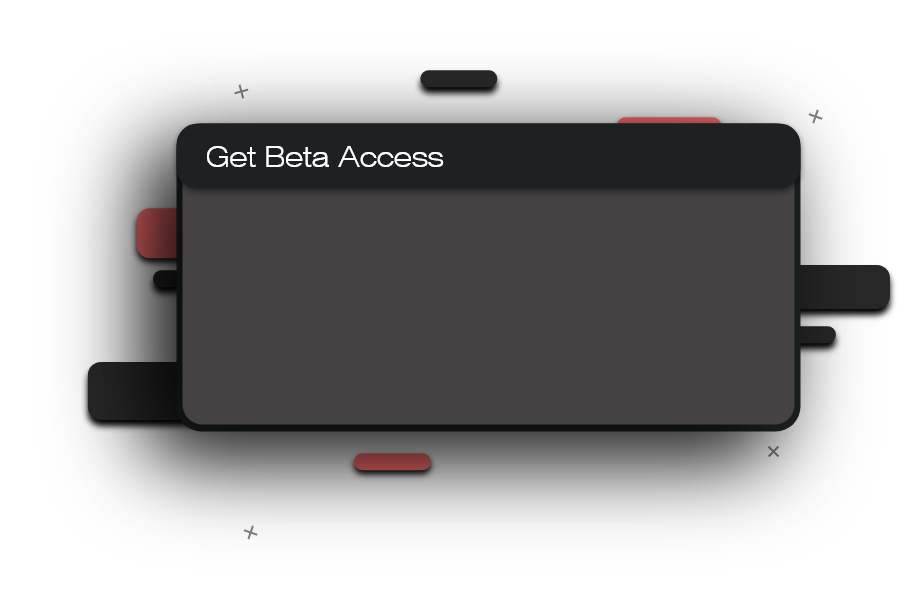
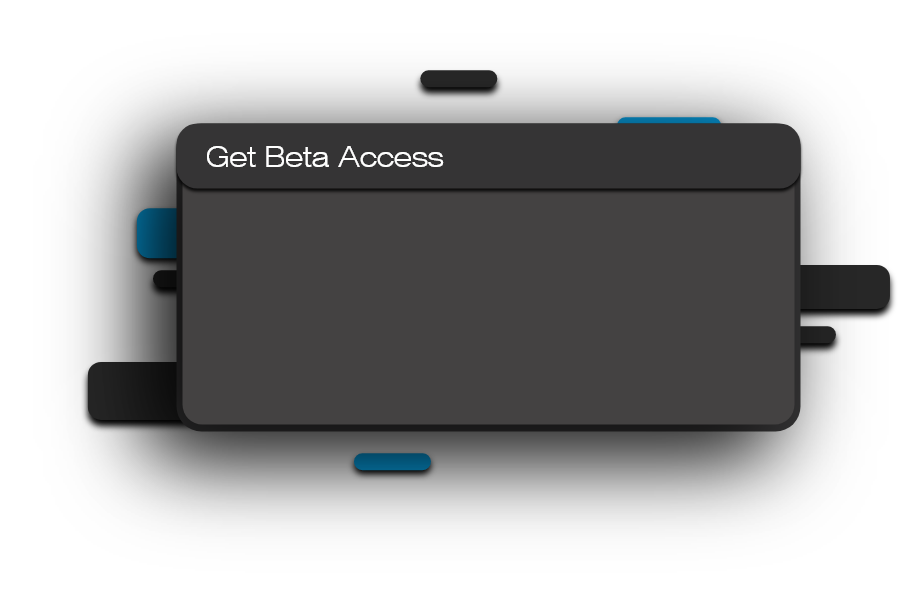
cosmetic changes

diff --git a/client/src/Components/Site/Navigation/Navigation.js b/client/src/Components/Site/Navigation/Navigation.js
@@ -11,21 +11,30 @@ class Navigation extends Component {
 
     render() {
 
+        console.log(window.location.pathname)
+
         return ( 
             <nav className={styles.navContainer}>
                 <div className={styles.logoContainer}>
-                    <h1 className={styles.logoText} onClick={()=>window.location = 'home'}>MetaMod</h1>
+                    <h1 className={styles.logoText} onClick={()=>window.location = 'home'}>
+                        MetaMod
+                        <div className={styles.activeLogo} style={window.location.pathname === '/home' || window.location.pathname === '/' ? {visibility: 'visible'} : {visibility: 'hidden'}}></div>
+                    </h1>
+                    
                 </div>
                 <div className={styles.navOptionsContainer}>
                     <ul className={styles.optionsList}>
                         <li className={styles.optionContainer} onClick={()=>window.location = 'beta'}>
                             <p className={styles.optionText}>Beta</p>
+                            <div className={styles.active} style={window.location.pathname === '/beta' ? {visibility: 'visible'} : {visibility: 'hidden'}}></div>
                         </li>
                         <li className={styles.optionContainer} onClick={()=>window.location = 'about'}>
                             <p className={styles.optionText}>Wth is MetaMod?</p>
+                            <div className={styles.active} style={window.location.pathname === '/about' ? {visibility: 'visible'} : {visibility: 'hidden'}}></div>
                         </li>
                         <li className={styles.optionContainer} onClick={()=>window.location = 'contact'}>
                             <p className={styles.optionText}>Contact</p>
+                            <div className={styles.active} style={window.location.pathname === '/contact' ? {visibility: 'visible'} : {visibility: 'hidden'}}></div>
                         </li>
                     </ul>
                 </div>

diff --git a/client/src/Components/Site/Navigation/Navigation.module.css b/client/src/Components/Site/Navigation/Navigation.module.css
@@ -26,6 +26,22 @@
     font-size: 30px;
     cursor: pointer;
     user-select: none;
+    color: white;
+}
+
+.logoText:hover {
+    color: #05A1E5;
+}
+
+.activeLogo {
+    /* position: absolute; */
+    width: 40px;
+    height: 5px;
+    background-color: #05A1E5;
+    margin: auto;
+    margin-top: -2px;
+    border-radius: 6px;
+    box-shadow: 1px 1px 4px rgb(0, 0, 0);
 }
 
 .navOptionsContainer {
@@ -55,6 +71,7 @@
     margin: auto;
     cursor: pointer;
     user-select: none;
+    color: white;
 }
 
 .optionText:hover {
@@ -78,10 +95,10 @@
     border-radius: 5px;
     font-family: 'Roboto';
     font-size: 28px;
-    font-weight: 300;
+    font-weight: 400;
     background-color: #05A1E5;
     position: relative;
-    color: white;
+    color: black;
     box-shadow: -1px 1px 4px rgba(0, 0, 0, 0.905);
     cursor: pointer;
     user-select: none;
@@ -89,4 +106,13 @@
 
 .loginButton:hover {
     background-color: #4ac7fd;
+}
+
+.active {
+    width: 40px;
+    height: 5px;
+    background-color: #05A1E5;
+    margin: auto;
+    border-radius: 6px;
+    box-shadow: 1px 1px 4px rgb(0, 0, 0);
 }

diff --git a/client/src/Components/Site/Contact/Contact.js b/client/src/Components/Site/Contact/Contact.js
@@ -4,7 +4,7 @@ import React, {Component} from 'react';
 import Site from '../Site';
 import Navigation from '../Navigation/Navigation';
 //Styles
-// import styles from './Contact.module.css';
+import styles from './Contact.module.css';
 //Assets
 
 
@@ -14,8 +14,8 @@ class Contact extends Component {
         return ( 
             <Site>
                 <Navigation url={this.props.url} displayLogin={true}/>
-                <div>
-
+                <div className={styles.contactContainer}>
+                    <h1 className={styles.notice}>Page In Progress :P</h1>
                 </div>
             </Site>
         );

diff --git a/client/src/Components/Site/About/About.js b/client/src/Components/Site/About/About.js
@@ -4,7 +4,7 @@ import React, {Component} from 'react';
 import Site from '../Site';
 import Navigation from '../Navigation/Navigation';
 //Styles
-// import styles from './About.module.css';
+import styles from './About.module.css';
 //Assets
 
 
@@ -14,8 +14,8 @@ class About extends Component {
         return ( 
             <Site>
                 <Navigation url={this.props.url} displayLogin={true}/>
-                <div>
-
+                <div className={styles.aboutContainer}>
+                    <h1 className={styles.notice}>Page In Progress :O</h1>
                 </div>
             </Site>
         );

diff --git a/client/src/Components/Site/Beta/Beta.js b/client/src/Components/Site/Beta/Beta.js
@@ -4,7 +4,7 @@ import React, {Component} from 'react';
 import Site from '../Site';
 import Navigation from '../Navigation/Navigation';
 //Styles
-// import styles from './Beta.module.css';
+import styles from './Beta.module.css';
 //Assets
 
 
@@ -14,8 +14,8 @@ class Beta extends Component {
         return ( 
             <Site>
                 <Navigation url={this.props.url} displayLogin={true}/>
-                <div>
-
+                <div className={styles.betaContainer}>
+                    <h1 className={styles.notice}>Page In Progress :D</h1>
                 </div>
             </Site>
         );

diff --git a/client/src/Components/Site/Home/Home.module.css b/client/src/Components/Site/Home/Home.module.css
@@ -13,6 +13,7 @@
     grid-column-start: 2;
     grid-column-end: 3;
     user-select: none;
+    color: white;
 }
 
 .callToAction h2 {
@@ -41,7 +42,7 @@
     font-family: 'Roboto';
     font-weight: 400;
     font-size: 24px;
-    color: rgb(255, 255, 255);
+    color:black;
     box-shadow: -1px 1px 4px rgba(0, 0, 0, 0.905);
     cursor: pointer;
 }

diff --git a/client/src/Components/Site/Contact/Contact.module.css b/client/src/Components/Site/Contact/Contact.module.css
@@ -1,0 +1,14 @@
+.contactContainer {
+    width: 100%;
+    display: grid;
+    grid-template-columns: 10% 30% 50% 10%;
+    height: 90vh;
+}
+
+.notice {
+    margin: auto;
+    width: 150px;
+    margin-left: 120px;
+    color: white;
+    grid-column-start: 1;
+}

diff --git a/client/src/Components/Site/About/About.module.css b/client/src/Components/Site/About/About.module.css
@@ -1,0 +1,14 @@
+.aboutContainer {
+    width: 100%;
+    display: grid;
+    grid-template-columns: 10% 30% 50% 10%;
+    height: 90vh;
+}
+
+.notice {
+    margin: auto;
+    width: 150px;
+    margin-left: 120px;
+    color: white;
+    grid-column-start: 1;
+}

diff --git a/client/src/Components/Site/Beta/Beta.module.css b/client/src/Components/Site/Beta/Beta.module.css
@@ -1,0 +1,14 @@
+.betaContainer {
+    width: 100%;
+    display: grid;
+    grid-template-columns: 10% 30% 50% 10%;
+    height: 90vh;
+}
+
+.notice {
+    margin: auto;
+    width: 150px;
+    margin-left: 120px;
+    color: white;
+    grid-column-start: 1;
+}

diff --git a/client/src/Components/Site/Site.module.css b/client/src/Components/Site/Site.module.css
@@ -1,10 +1,10 @@
 .homeBackground {
-    background-color: #EBE8E0;
+    background-color: #222222;
 }
 
 .homePageContainer {
     width: 100%;
     max-width: 1800px;
-    background-color:#EBE8E0;
+    background-color: #222222;
     margin: auto;
 }

diff --git a/client/src/Components/Main/Main.module.css b/client/src/Components/Main/Main.module.css
@@ -1,7 +1,7 @@
 .application {
 	width: 100%;
 	height: 100vh;
-	background-color:#2C2E33;
+	background-color:#222222;
 	margin: 0px;
 	position: absolute;
 	overflow: hidden;
